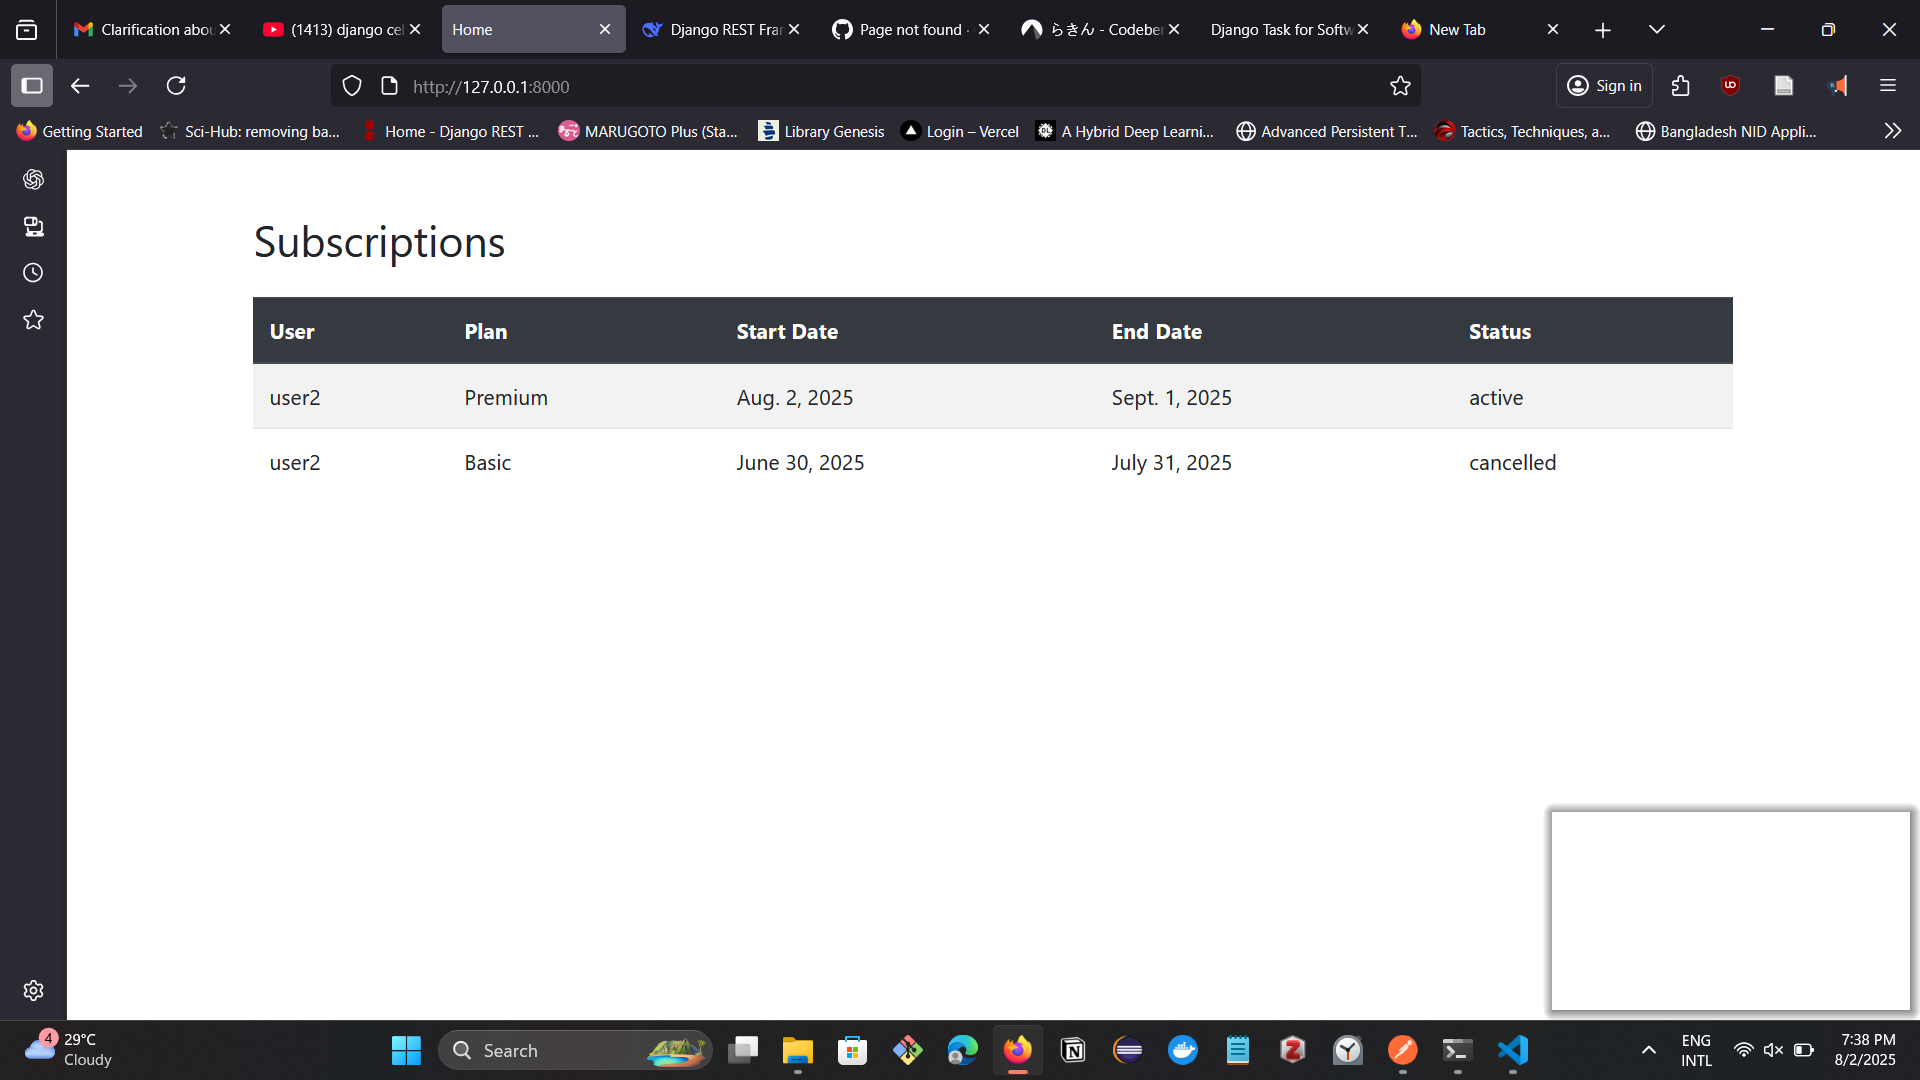
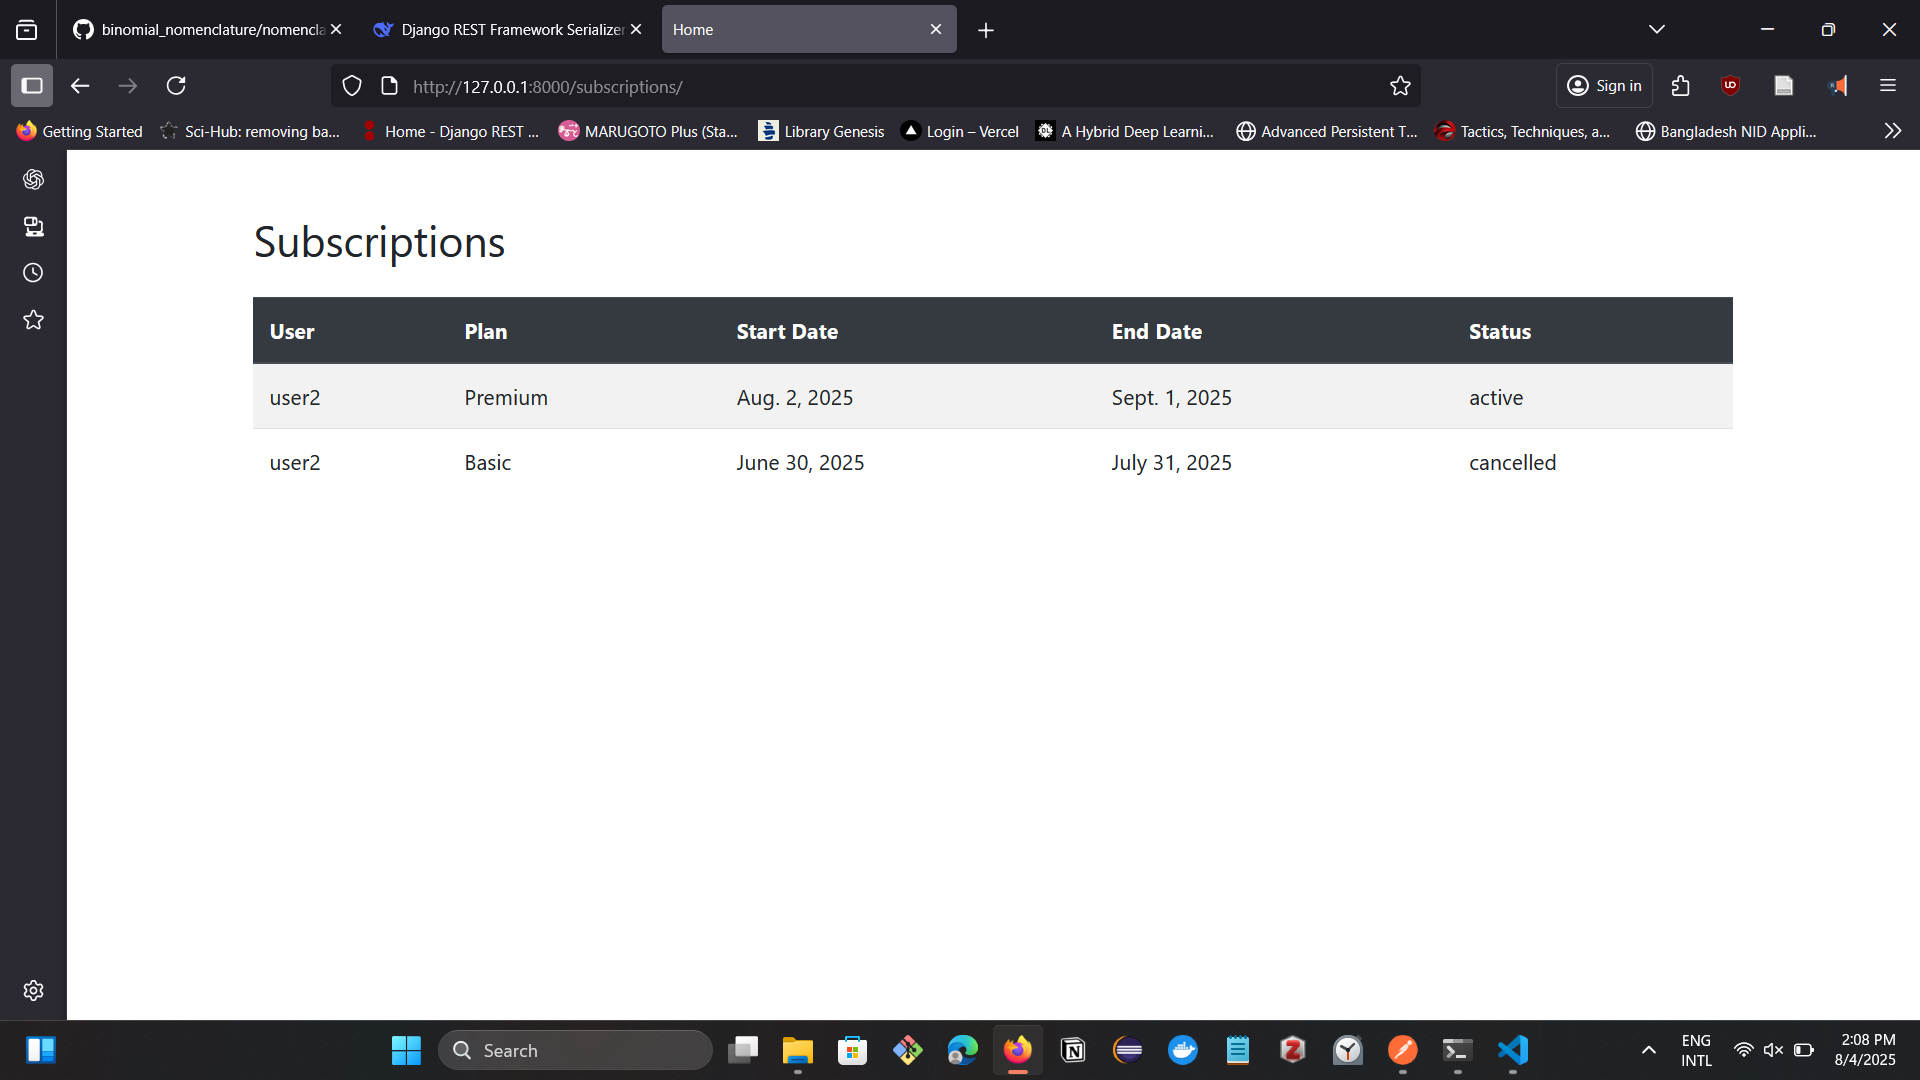
fix: rendering template showing list of subscribtions.

diff --git a/bookishfool/bfoolapp/templates/index.html b/bookishfool/bfoolapp/templates/index.html
@@ -4,7 +4,7 @@
     <meta charset="UTF-8">
     <link rel="stylesheet" href="https://stackpath.bootstrapcdn.com/bootstrap/4.4.1/css/bootstrap.min.css" integrity="sha384-Vkoo8x4CGsO3+Hhxv8T/Q5PaXtkKtu6ug5TOeNV6gBiFeWPGFN9MuhOf23Q9Ifjh" crossorigin="anonymous">
     <meta name="viewport" content="width=device-width, initial-scale=1.0">
-    <title>Home</title>
+    <title>Subscriptions</title>
 </head>
 <body>
     <div class="container mt-5">

diff --git a/bookishfool/bfoolapp/urls.py b/bookishfool/bfoolapp/urls.py
@@ -6,7 +6,7 @@ from rest_framework_simplejwt.views import (
 )
 
 urlpatterns = [
-    path("", index, name="index"),
+    path("subscriptions/", subscriptions, name="subscriptions"),
     path('api/register/', RegisterView.as_view(), name='register'),
     path('api/login/', TokenObtainPairView.as_view(), name='login'),
     path('api/refresh/', TokenRefreshView.as_view(), name='token_refresh'),

diff --git a/bookishfool/bfoolapp/views.py b/bookishfool/bfoolapp/views.py
@@ -13,7 +13,7 @@ from .models import *
 # Create your views here.
 
 
-def index(request):
+def subscriptions(request):
     subscribtions = Subscribtion.objects.all().order_by('-id')
     return render(request, 'index.html',{
         "subscribtions": subscribtions

diff --git a/README.md b/README.md
@@ -47,7 +47,9 @@ python bookishfool/manage.py runserver
 
 ---
 
-Successful Run of the server will redirect to homepage and user should see this page shown on the screenshot.
+## Overview
+If the server runs successfully, type `http://127.0.0.1:8000/subscriptions/` in the address bar. It should show the interface bellow. If you have no data stored in database, it'll display "No subscrptions found" instead of data. This page served by `render()` method. Frontend - Bootstrap 4.
+
 
 ![Screenshot](assets/Screenshot.png)
 
